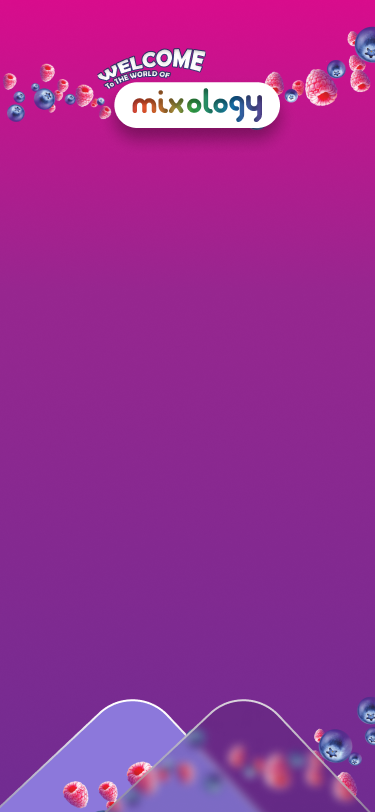
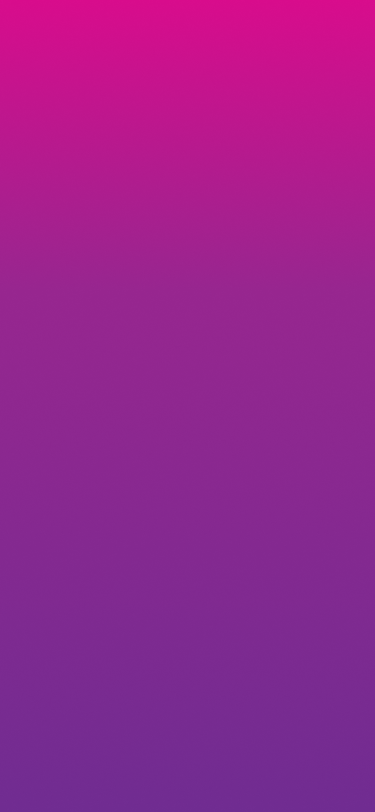
updated background images

diff --git a/script.js b/script.js
@@ -11,13 +11,13 @@ registrationForm.addEventListener('submit', function(e) {
 
 otpForm.addEventListener('submit', function(e) {
   e.preventDefault();
-  moodSelectionScreen();
+  filterSelectionScreen();
 });
 
 filterImages.forEach(function(image) {
 image.addEventListener('click', function() {
-    const selectedMood = this.getAttribute('data-filter');
-    thankYouScreen(selectedMood);
+    const selectedFilter = this.getAttribute('data-filter');
+    thankYouScreen(selectedFilter);
   });
 });
 
@@ -26,12 +26,12 @@ function otpScreen() {
   document.getElementById('otp-screen').style.display = 'block';
 }
 
-function moodSelectionScreen() {
+function filterSelectionScreen() {
   document.getElementById('otp-screen').style.display = 'none';
   document.getElementById('filter-screen').style.display = 'block';
 }
 
-function thankYouScreen(mood) {
+function thankYouScreen(filter) {
   document.getElementById('filter-screen').style.display = 'none';
   document.getElementById('congrats-screen').style.display = 'block';
   const congratsScreen = document.getElementById('congrats-screen');

diff --git a/index.html b/index.html
@@ -2,13 +2,13 @@
 <html>
 
 <head>
-    <meta name="viewport" content="width=375px, initial-scale=1">
+    <meta name="viewport" content="width=device-width, initial-scale=1.0">
     <link rel="stylesheet" href="style.css">
 </head>
 
 <body>
     <div class="container">
-        <section id="registration-screen">
+         <section id="registration-screen">
             <h1 class="registration-header">Registration</h1>
             <form id="registration-form">
                 <input type="text" placeholder="Enter your unique code" required>
@@ -76,8 +76,6 @@
                         <img class="filter-image" src="images/filter4.png" alt="Sad">
                         <h3>SHADY TONES</h3>
                     </div>
-                    <!-- <img class="filter-image" src="images/filter3.png" alt="Excited">
-                        <img class="filter-image" src="images/filter4.png" alt="Excited"> -->
                 </div>
 
             </div>

diff --git a/style.css b/style.css
@@ -3,16 +3,16 @@ body {
 }
 
 .container {
-  background-image: url(images/bg.png);
-  background-size: cover;
+  background-image: url(images/titlelogo.png), url(images/Fruit\ Flow.png),url(images/boootom\ design.png), url(images/bg.png);
+  background-size: 40%, 100%, 100%, cover;
   background-repeat: no-repeat;
-  background-position: center;
+  background-position: top 50px center, top,bottom,center;
   margin: 0;
   padding: 20px;
   height: 100vh;
   font-family: Arial, sans-serif;
   max-width: 500px;
-  margin: 0 auto;
+  margin: 0;
 }
 
 .registration-screen {
